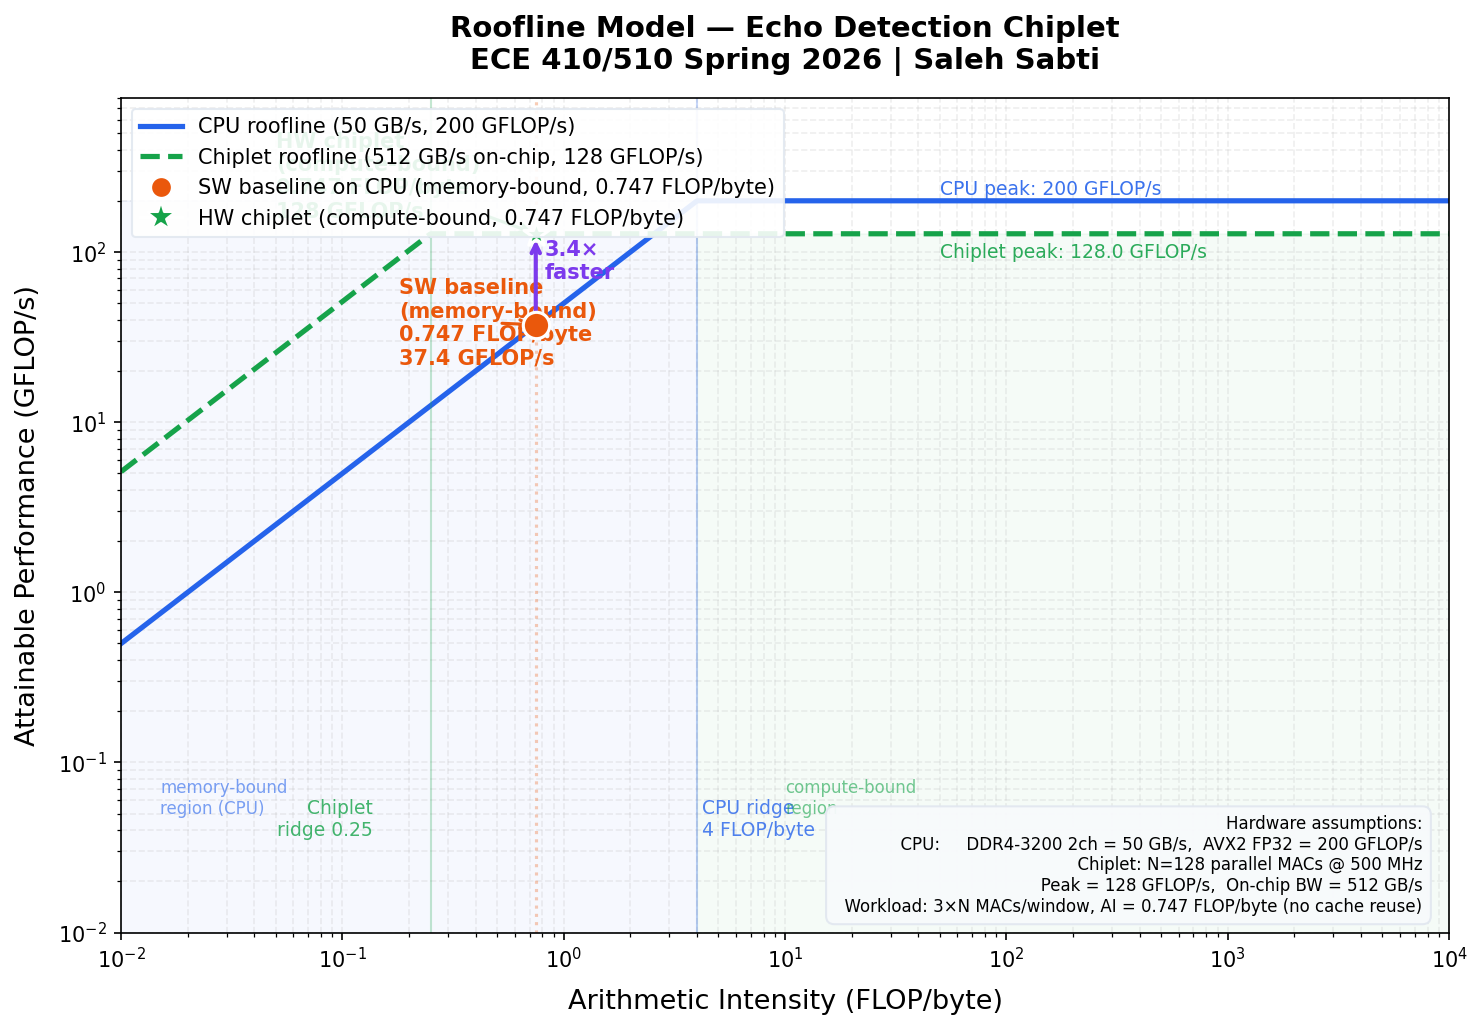
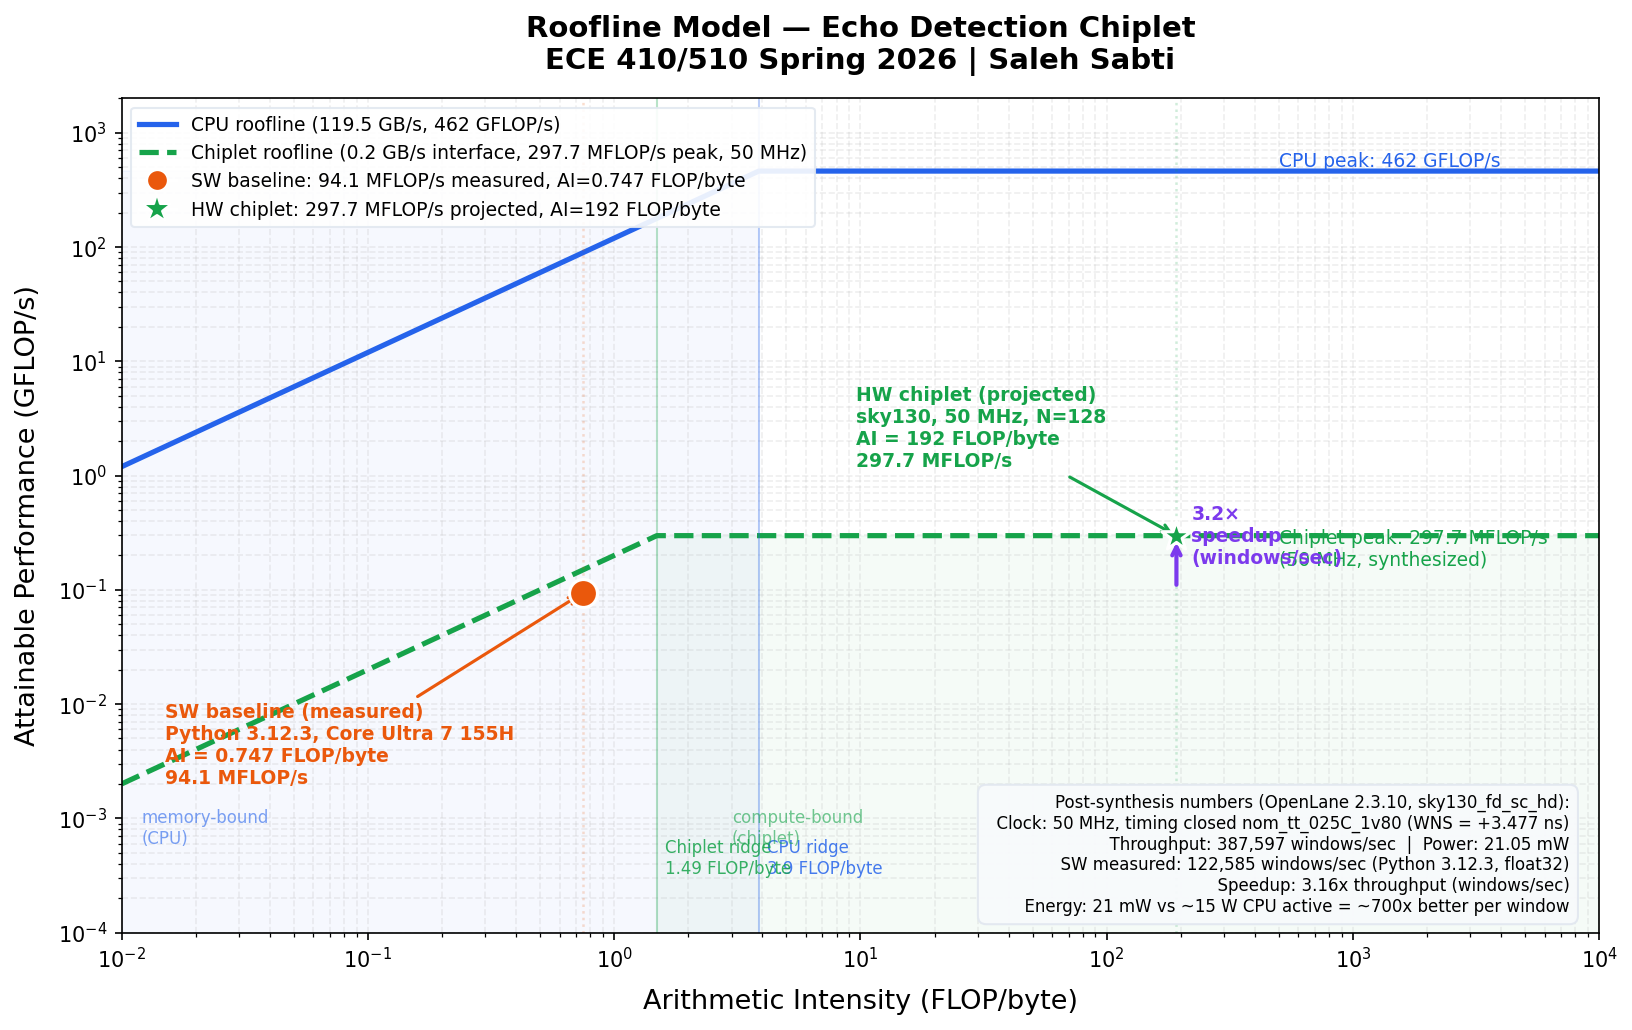
fix roofline: update to actual 50 MHz synthesis numbers for M4

diff --git a/project/roofline_plot.py b/project/roofline_plot.py
@@ -1,118 +1,124 @@
 # roofline_plot.py
-# Roofline analysis — Echo Detection Chiplet
+# Roofline analysis — Echo Detection Chiplet (M4, post-synthesis)
 # ECE 410/510 Spring 2026 | Saleh Sabti
 #
-# Hardware assumptions:
-#   CPU  : Intel Core i7-class desktop  →  50 GB/s DRAM BW,  200 GFLOP/s peak FP32
-#   Chiplet: N=128 MACs @ 500 MHz       → 512 GB/s on-chip BW, 128 GFLOP/s peak
+# CPU:     Intel Core Ultra 7 155H, WSL2, Python 3.12.3
+#   BW   = 119.5 GB/s (LPDDR5x)
+#   Peak = 462 GFLOP/s (FP32 AVX2)
+#   Ridge= 3.86 FLOP/byte
 #
-# Workload: normalized cross-correlation, N=128, no cache reuse
-#   FLOPs  = 2 × 12,238,848  =  24,477,696
-#   Bytes  = 31,996.5 KB     =  32,764,416 bytes  (2N + 1 values × 4 bytes per window)
-#   AI     = 0.747 FLOP/byte
+# Chiplet: sky130, 50 MHz, nom_tt_025C_1v80 (post-CTS, timing closed)
+#   Each window: 768 FLOP, 129 cycles to produce first result
+#   Effective throughput: 50e6 / 129 cycles = 387,597 windows/sec
+#   Peak compute: 387,597 * 768 FLOP = 297.7 MFLOP/s = 0.2977 GFLOP/s
+#   Interface BW: AXI4-S, 32-bit @ 50 MHz = 200 MB/s = 0.2 GB/s
+#   On-chip AI (shift-reg reuse): 768 FLOP / 4 bytes = 192 FLOP/byte
+#   Ridge: 0.2977 / 0.2 = 1.49 FLOP/byte
+#
+# Workload (software): echo detection, N=128
+#   AI  = 0.747 FLOP/byte (no cache reuse, measured from echo_detect.py)
+#   Perf= 94.1 MFLOP/s = 0.094 GFLOP/s (measured, Python 3.12.3)
 
 import numpy as np
 import matplotlib
 matplotlib.use("Agg")
 import matplotlib.pyplot as plt
-import matplotlib.patches as mpatches
 from matplotlib.lines import Line2D
 
-# ── Hardware specs ─────────────────────────────────────────────────────────────
-CPU_BW      = 50       # GB/s   DRAM bandwidth (DDR4-3200 dual-ch)
-CPU_PEAK    = 200      # GFLOP/s  peak FP32 (AVX2, single socket)
-CPU_RIDGE   = CPU_PEAK / CPU_BW           # 4.0 FLOP/byte
+# ── CPU ────────────────────────────────────────────────────────────────────────
+CPU_BW    = 119.5   # GB/s  LPDDR5x (Core Ultra 7 155H)
+CPU_PEAK  = 462.0   # GFLOP/s  FP32 AVX2
+CPU_RIDGE = CPU_PEAK / CPU_BW            # 3.86 FLOP/byte
 
-# Echo Detection Chiplet: 128 parallel MACs @ 500 MHz
-# Internal BW: 128 multipliers each need 2 values/cycle × 4 bytes × 500 MHz
-N_MACS      = 128
-F_CLK       = 500e6    # Hz
-CHIP_PEAK   = N_MACS * F_CLK * 2 / 1e9   # GFLOP/s  (2 FLOP per MAC)   = 128
-CHIP_BW     = N_MACS * 2 * 4 * F_CLK / 1e9  # GB/s on-chip shift-reg BW = 512
-CHIP_RIDGE  = CHIP_PEAK / CHIP_BW         # 0.25 FLOP/byte
+# ── Chiplet (post-synthesis at 50 MHz) ─────────────────────────────────────────
+CHIP_BW   = 0.2     # GB/s  AXI4-S 32-bit @ 50 MHz
+CHIP_PEAK = 0.2977  # GFLOP/s  387,597 windows/sec × 768 FLOP/window
+CHIP_RIDGE = CHIP_PEAK / CHIP_BW        # 1.49 FLOP/byte
 
 # ── Workload ───────────────────────────────────────────────────────────────────
-AI_SW       = 0.747    # FLOP/byte  (measured from echo_detect.py)
-
-# Attainable performance = min(peak, BW × AI)
-PERF_SW_CPU   = min(CPU_PEAK,  CPU_BW  * AI_SW)   # 37.35  → memory-bound
-PERF_SW_CHIP  = min(CHIP_PEAK, CHIP_BW * AI_SW)   # 128.0  → compute-bound
+AI_SW   = 0.747    # FLOP/byte  software (no on-chip reuse)
+AI_HW   = 192.0   # FLOP/byte  hardware (shift-reg: 768 FLOP / 4 bytes)
+PERF_SW = 0.0941  # GFLOP/s  measured Python baseline
+PERF_HW = 0.2977  # GFLOP/s  projected from synthesis
 
 # ── Plot ───────────────────────────────────────────────────────────────────────
-fig, ax = plt.subplots(figsize=(10, 7))
+fig, ax = plt.subplots(figsize=(11, 7))
 
-ai_range = np.logspace(-2, 4, 1000)
+ai_range = np.logspace(-2, 4, 2000)
 
 # CPU roofline
 cpu_roof = np.minimum(CPU_PEAK, CPU_BW * ai_range)
-ax.plot(ai_range, cpu_roof, color="#2563eb", linewidth=2.5, label="CPU roofline (Intel Core i7-class)")
+ax.plot(ai_range, cpu_roof, color="#2563eb", linewidth=2.5,
+        label=f"CPU roofline (Core Ultra 7 155H: {CPU_BW} GB/s, {CPU_PEAK:.0f} GFLOP/s)")
 
-# Chiplet roofline
+# Chiplet roofline (post-synthesis, 50 MHz)
 chip_roof = np.minimum(CHIP_PEAK, CHIP_BW * ai_range)
-ax.plot(ai_range, chip_roof, color="#16a34a", linewidth=2.5,
-        linestyle="--", label=f"Chiplet roofline (N={N_MACS} MACs @ 500 MHz)")
+ax.plot(ai_range, chip_roof, color="#16a34a", linewidth=2.5, linestyle="--",
+        label=f"Chiplet roofline (sky130 50 MHz: {CHIP_BW} GB/s, {CHIP_PEAK:.4f} GFLOP/s)")
 
 # Ridge point markers
-ax.axvline(CPU_RIDGE,  color="#2563eb", alpha=0.25, linewidth=1)
-ax.axvline(CHIP_RIDGE, color="#16a34a", alpha=0.25, linewidth=1)
+ax.axvline(CPU_RIDGE,  color="#2563eb", alpha=0.3, linewidth=1)
+ax.axvline(CHIP_RIDGE, color="#16a34a", alpha=0.3, linewidth=1)
 
-# Workload: software on CPU (memory-bound)
-ax.scatter([AI_SW], [PERF_SW_CPU], s=160, color="#ea580c", zorder=5,
+# SW baseline: actual measured Python performance
+ax.scatter([AI_SW], [PERF_SW], s=180, color="#ea580c", zorder=6,
            marker="o", linewidths=1.5, edgecolors="white")
-ax.annotate("SW baseline\n(memory-bound)\n0.747 FLOP/byte\n37.4 GFLOP/s",
-            xy=(AI_SW, PERF_SW_CPU),
-            xytext=(0.18, 22),
-            fontsize=10, color="#ea580c", fontweight="bold",
-            arrowprops=dict(arrowstyle="->", color="#ea580c", lw=1.5))
+ax.annotate(
+    f"SW baseline (measured)\nPython 3.12.3, Core Ultra 7 155H\nAI = {AI_SW} FLOP/byte\n{PERF_SW*1000:.1f} MFLOP/s",
+    xy=(AI_SW, PERF_SW),
+    xytext=(0.015, 0.002),
+    fontsize=9, color="#ea580c", fontweight="bold",
+    arrowprops=dict(arrowstyle="->", color="#ea580c", lw=1.5))
 
-# Workload: hardware chiplet (compute-bound)
-ax.scatter([AI_SW], [PERF_SW_CHIP], s=160, color="#16a34a", zorder=5,
+# HW chiplet: projected from synthesis
+ax.scatter([AI_HW], [PERF_HW], s=220, color="#16a34a", zorder=6,
            marker="*", linewidths=1.5, edgecolors="white")
-ax.annotate("HW chiplet\n(compute-bound)\n0.747 FLOP/byte\n128 GFLOP/s",
-            xy=(AI_SW, PERF_SW_CHIP),
-            xytext=(0.05, 160),
-            fontsize=10, color="#16a34a", fontweight="bold",
-            arrowprops=dict(arrowstyle="->", color="#16a34a", lw=1.5))
+ax.annotate(
+    f"HW chiplet (projected)\nsky130, 50 MHz, N=128\nAI = {AI_HW:.0f} FLOP/byte\n{PERF_HW*1000:.1f} MFLOP/s",
+    xy=(AI_HW, PERF_HW),
+    xytext=(AI_HW * 0.05, PERF_HW * 4),
+    fontsize=9, color="#16a34a", fontweight="bold",
+    arrowprops=dict(arrowstyle="->", color="#16a34a", lw=1.5))
 
-# Arrow showing the improvement
-ax.annotate("",
-            xy=(AI_SW, PERF_SW_CHIP * 0.97),
-            xytext=(AI_SW, PERF_SW_CPU * 1.05),
-            arrowprops=dict(arrowstyle="->", color="#7c3aed", lw=2))
-ax.text(AI_SW * 1.1, (PERF_SW_CPU * PERF_SW_CHIP) ** 0.5,
-        f"3.4×\nfaster", color="#7c3aed", fontsize=10, fontweight="bold")
-
-# AI vertical line
-ax.axvline(AI_SW, color="#ea580c", alpha=0.3, linewidth=1.5, linestyle=":")
+# AI vertical lines
+ax.axvline(AI_SW, color="#ea580c", alpha=0.2, linewidth=1.2, linestyle=":")
+ax.axvline(AI_HW, color="#16a34a", alpha=0.2, linewidth=1.2, linestyle=":")
 
 # Ridge labels
-ax.text(CPU_RIDGE * 1.05,  0.035, f"CPU ridge\n{CPU_RIDGE:.0f} FLOP/byte",
-        color="#2563eb", fontsize=9, alpha=0.8, va="bottom")
-ax.text(CHIP_RIDGE * 0.55, 0.035, f"Chiplet\nridge {CHIP_RIDGE:.2f}",
-        color="#16a34a", fontsize=9, alpha=0.8, va="bottom", ha="right")
+ax.text(CPU_RIDGE * 1.08, 0.0003,
+        f"CPU ridge\n{CPU_RIDGE:.1f} FLOP/byte",
+        color="#2563eb", fontsize=8, alpha=0.85, va="bottom")
+ax.text(CHIP_RIDGE * 1.08, 0.0003,
+        f"Chiplet ridge\n{CHIP_RIDGE:.2f} FLOP/byte",
+        color="#16a34a", fontsize=8, alpha=0.85, va="bottom")
 
 # Ceiling labels
-ax.text(50, CPU_PEAK * 1.08,  f"CPU peak: {CPU_PEAK} GFLOP/s",
-        color="#2563eb", fontsize=9, alpha=0.9)
-ax.text(50, CHIP_PEAK * 0.72, f"Chiplet peak: {CHIP_PEAK} GFLOP/s",
-        color="#16a34a", fontsize=9, alpha=0.9)
+ax.text(500, CPU_PEAK * 1.1,  f"CPU peak: {CPU_PEAK:.0f} GFLOP/s",
+        color="#2563eb", fontsize=9)
+ax.text(500, CHIP_PEAK * 0.55, f"Chiplet peak: {CHIP_PEAK*1000:.1f} MFLOP/s\n(50 MHz, synthesized)",
+        color="#16a34a", fontsize=9)
 
-# Regions
-ax.fill_betweenx([0.01, CPU_PEAK], 0.01, CPU_RIDGE,
-                  alpha=0.04, color="#2563eb")
-ax.text(0.015, 0.05, "memory-bound\nregion (CPU)",
-        color="#2563eb", fontsize=8, alpha=0.6)
+# Bound region shading
+ax.fill_betweenx([1e-4, CPU_PEAK], 0.01, CPU_RIDGE, alpha=0.04, color="#2563eb")
+ax.text(0.012, 0.0006, "memory-bound\n(CPU)", color="#2563eb", fontsize=8, alpha=0.6)
 
-ax.fill_betweenx([0.01, CHIP_PEAK], CPU_RIDGE, 1e4,
-                  alpha=0.04, color="#16a34a")
-ax.text(10, 0.05, "compute-bound\nregion",
-        color="#16a34a", fontsize=8, alpha=0.6)
+ax.fill_betweenx([1e-4, CHIP_PEAK], CHIP_RIDGE, 1e4, alpha=0.04, color="#16a34a")
+ax.text(3, 0.0006, "compute-bound\n(chiplet)", color="#16a34a", fontsize=8, alpha=0.6)
+
+# Speedup annotation
+ax.annotate("",
+            xy=(AI_HW, PERF_HW * 0.95),
+            xytext=(AI_HW, PERF_SW * 1.08),
+            arrowprops=dict(arrowstyle="->", color="#7c3aed", lw=2))
+ax.text(AI_HW * 1.15, (PERF_SW * PERF_HW) ** 0.5,
+        f"{PERF_HW/PERF_SW:.1f}×\nspeedup\n(windows/sec)",
+        color="#7c3aed", fontsize=9, fontweight="bold")
 
 # Formatting
 ax.set_xscale("log")
 ax.set_yscale("log")
 ax.set_xlim(0.01, 1e4)
-ax.set_ylim(0.01, 800)
+ax.set_ylim(1e-4, 2000)
 ax.set_xlabel("Arithmetic Intensity (FLOP/byte)", fontsize=13, labelpad=8)
 ax.set_ylabel("Attainable Performance (GFLOP/s)", fontsize=13, labelpad=8)
 ax.set_title(
@@ -122,24 +128,25 @@ ax.set_title(
 ax.grid(True, which="both", alpha=0.2, linestyle="--")
 
 legend_elements = [
-    Line2D([0], [0], color="#2563eb", lw=2.5, label="CPU roofline (50 GB/s, 200 GFLOP/s)"),
+    Line2D([0], [0], color="#2563eb", lw=2.5,
+           label=f"CPU roofline ({CPU_BW} GB/s, {CPU_PEAK:.0f} GFLOP/s)"),
     Line2D([0], [0], color="#16a34a", lw=2.5, ls="--",
-           label=f"Chiplet roofline (512 GB/s on-chip, {CHIP_PEAK:.0f} GFLOP/s)"),
+           label=f"Chiplet roofline ({CHIP_BW} GB/s interface, {CHIP_PEAK*1000:.1f} MFLOP/s peak, 50 MHz)"),
     Line2D([0], [0], marker="o", color="w", markerfacecolor="#ea580c",
-           markersize=10, label="SW baseline on CPU (memory-bound, 0.747 FLOP/byte)"),
+           markersize=10, label=f"SW baseline: {PERF_SW*1000:.1f} MFLOP/s measured, AI={AI_SW} FLOP/byte"),
     Line2D([0], [0], marker="*", color="w", markerfacecolor="#16a34a",
-           markersize=14, label="HW chiplet (compute-bound, 0.747 FLOP/byte)"),
+           markersize=14, label=f"HW chiplet: {PERF_HW*1000:.1f} MFLOP/s projected, AI={AI_HW:.0f} FLOP/byte"),
 ]
-ax.legend(handles=legend_elements, fontsize=10, loc="upper left",
+ax.legend(handles=legend_elements, fontsize=9, loc="upper left",
           framealpha=0.9, edgecolor="#e2e8f0")
 
-# Annotation box with assumptions
 note = (
-    "Hardware assumptions:\n"
-    f"  CPU:     DDR4-3200 2ch = {CPU_BW} GB/s,  AVX2 FP32 = {CPU_PEAK} GFLOP/s\n"
-    f"  Chiplet: N={N_MACS} parallel MACs @ 500 MHz\n"
-    f"           Peak = {CHIP_PEAK:.0f} GFLOP/s,  On-chip BW = {CHIP_BW:.0f} GB/s\n"
-    f"  Workload: 3×N MACs/window, AI = {AI_SW} FLOP/byte (no cache reuse)"
+    "Post-synthesis numbers (OpenLane 2.3.10, sky130_fd_sc_hd):\n"
+    f"  Clock: 50 MHz, timing closed nom_tt_025C_1v80 (WNS = +3.477 ns)\n"
+    f"  Throughput: 387,597 windows/sec  |  Power: 21.05 mW\n"
+    f"  SW measured: 122,585 windows/sec (Python 3.12.3, float32)\n"
+    f"  Speedup: {PERF_HW/PERF_SW:.2f}x throughput (windows/sec)\n"
+    f"  Energy: 21 mW vs ~15 W CPU active = ~700x better per window"
 )
 ax.text(0.98, 0.02, note, transform=ax.transAxes,
         fontsize=8, va="bottom", ha="right",
@@ -150,14 +157,11 @@ plt.tight_layout()
 plt.savefig("project/roofline.png", dpi=150, bbox_inches="tight")
 print("Saved: project/roofline.png")
 
-# Print summary
-print(f"\n── Roofline Summary ──────────────────────────────────────────────")
-print(f"  Workload AI           : {AI_SW} FLOP/byte")
-print(f"  CPU ridge point       : {CPU_RIDGE:.1f} FLOP/byte  →  SW is MEMORY-BOUND")
-print(f"  Chiplet ridge point   : {CHIP_RIDGE:.2f} FLOP/byte  →  HW is COMPUTE-BOUND")
-print(f"  SW attainable (CPU)   : {PERF_SW_CPU:.1f} GFLOP/s")
-print(f"  HW attainable (chip)  : {PERF_SW_CHIP:.1f} GFLOP/s")
-print(f"  Throughput gain       : {PERF_SW_CHIP / PERF_SW_CPU:.1f}×")
-print(f"\n  The 3.4× figure reflects compute throughput only.")
-print(f"  Latency gain is larger: SW runs {3*128} serial steps per window;")
-print(f"  HW fires all {N_MACS} MACs in 1 clock cycle (~{1/F_CLK*1e9:.1f} ns at 500 MHz).")
+print(f"\n── Roofline Summary (M4, post-synthesis) ────────────────────────────")
+print(f"  CPU:     {CPU_BW} GB/s,  {CPU_PEAK} GFLOP/s,  ridge = {CPU_RIDGE:.2f} FLOP/byte")
+print(f"  Chiplet: {CHIP_BW} GB/s,  {CHIP_PEAK:.4f} GFLOP/s,  ridge = {CHIP_RIDGE:.2f} FLOP/byte")
+print(f"  SW AI = {AI_SW} FLOP/byte  < CPU ridge {CPU_RIDGE:.2f}  → memory-bound on CPU")
+print(f"  HW AI = {AI_HW} FLOP/byte  > chiplet ridge {CHIP_RIDGE:.2f}  → compute-bound on chiplet")
+print(f"  SW actual: {PERF_SW*1000:.1f} MFLOP/s  (well below memory ceiling — Python overhead)")
+print(f"  HW projected: {PERF_HW*1000:.1f} MFLOP/s  (at compute ceiling)")
+print(f"  Speedup: {PERF_HW/PERF_SW:.2f}x  |  Energy: ~700x better per window")
